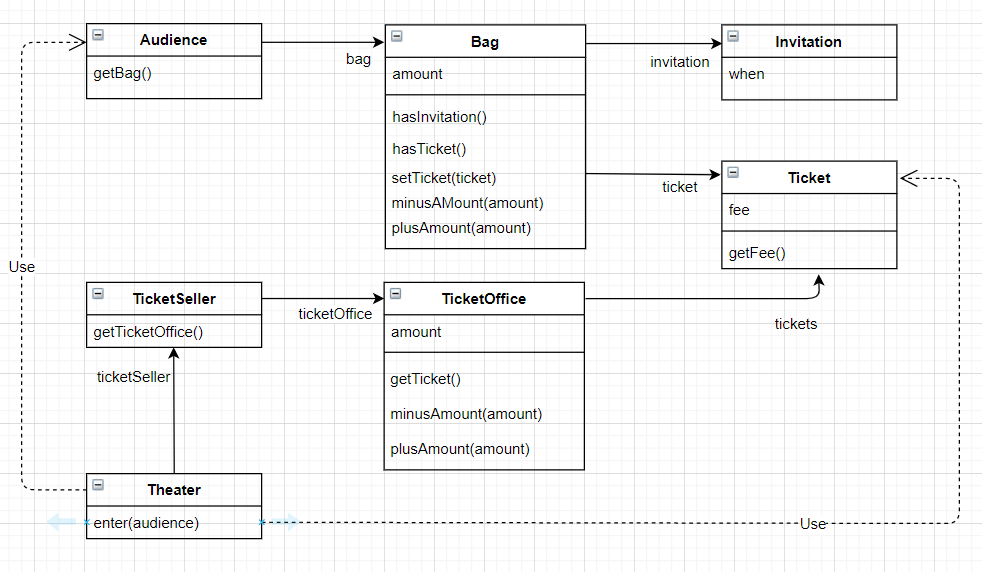
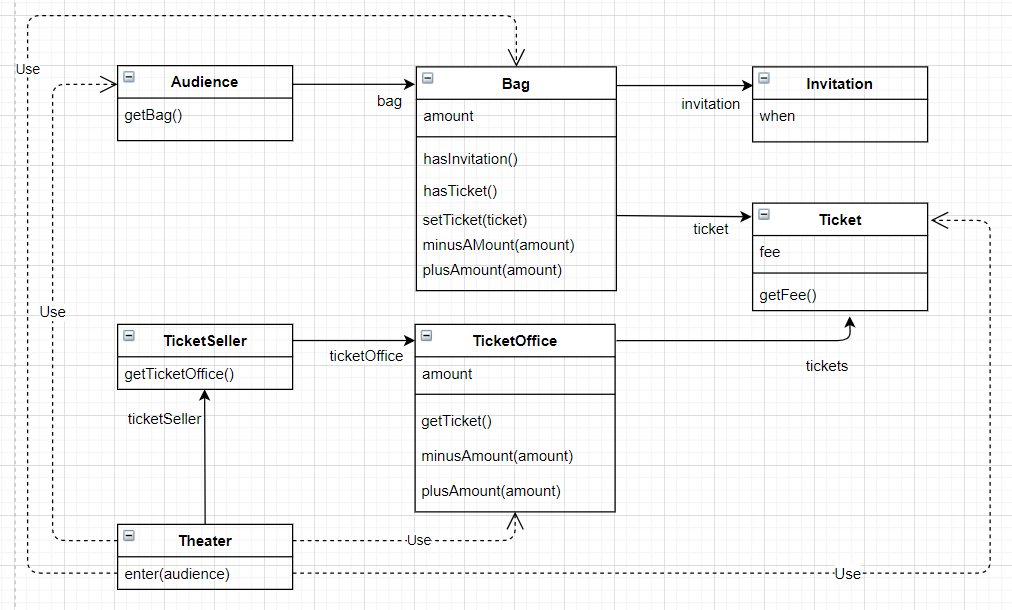
중간결과
Theater.enter(Audience)메소드의 로직을 TIcketSeller가 가져간다.

diff --git a/movieWebSite/src/main/java/com/movieWebSite/Theater.java b/movieWebSite/src/main/java/com/movieWebSite/Theater.java
@@ -11,19 +11,12 @@ public class Theater {
 	public Theater(TicketSeller ticketSeller) {
 		this.ticketSeller=ticketSeller;
 	}
-//관객이 극장에 입장할 때 초대장의 유무를 확인한다.
-//초대장이 있으면 티켓판매원이 매표소에서 티켓을 꺼내고 관람객은 티켓을 받는다.
-//초대장이 없으면 티켓판매원이 티켓을 꺼내고 관람객은 가방에서 금액을 티켓가격만큼 지불한다.
-//판매원은 매표소에 티켓 가격만큼의 금액을 추가하고 관람객은 티켓을 받는다.
+	
+	/*
+	 * 2. 기존에 enter 아래 로직을 티켓판매원이 가져갔다.
+	 * 이제 가저간 로직을 호출하는 메소드만 간단하게 작성한다. 
+	 * */
 	public void enter(Audience audience) {
-		if(audience.getBag().hasInvitation()) {
-			Ticket ticket = ticketSeller.getTicketOffice().getTicket();
-			audience.getBag().setTicket(ticket);
-		}else {
-			Ticket ticket = ticketSeller.getTicketOffice().getTicket();
-			audience.getBag().minusAmount(ticket.getFee());
-			ticketSeller.getTicketOffice().plusAmount(ticket.getFee());
-			audience.getBag().setTicket(ticket);
-		}
+		ticketSeller.sellTo(audience);
 	}
 }

diff --git a/movieWebSite/src/main/java/com/movieWebSite/domain/TicketSeller.java b/movieWebSite/src/main/java/com/movieWebSite/domain/TicketSeller.java
@@ -9,7 +9,23 @@ public class TicketSeller {
 		this.ticketOffice = ticketOffice;
 	}
 	
-	public TicketOffice getTicketOffice() {
-		return ticketOffice;
+	
+//	1-1. 이 메소드를 제거함으로 TIcketSeller 이외에 다른 클래스에서 TicketOffice에 직접 접근할 수 없다.
+//	public TicketOffice getTicketOffice() {
+//		return ticketOffice;
+//	}
+	
+	//1-2. 기존에 Theater.enter(Audience audience)에 있던 로직을 가져왔다.
+	//이제 티켓판매원이 판매를 직접 관리한다.
+	public void sellTo(Audience audience) {
+		if(audience.getBag().hasInvitation()) {
+			Ticket ticket = ticketOffice.getTicket();
+			audience.getBag().setTicket(ticket);
+		}else {
+			Ticket ticket = ticketOffice.getTicket();
+			audience.getBag().minusAmount(ticket.getFee());
+			ticketOffice.plusAmount(ticket.getFee());
+			audience.getBag().setTicket(ticket);
+		}
 	}
 }

diff --git a/movieWebSite/src/main/java/com/movieWebSite/domain/Audience.java b/movieWebSite/src/main/java/com/movieWebSite/domain/Audience.java
@@ -4,6 +4,7 @@ package com.movieWebSite.domain;
 public class Audience {
 	private Bag bag;
 	
+
 	public Bag getBag() {
 		return bag;
 	}

diff --git a/01.md b/01.md
@@ -1,0 +1,137 @@
+## 티켓 판매 프로그램 로직
+![너무많은 클래스에 의존하는 Theater](https://github.com/nowv30/Object/blob/master/images/%EC%A3%BC%EC%84%9D%202020-07-12%20143244.png "너무많은 클래스에 의존하는 Theater")
+- 영화관에서 영화를 상영하는데 관람객은 받은 초대장을 티켓으로 교환하거나 매표소에서 직원에게 티켓을 구매해야 한다.
+```java
+//1. 초대장에는 초대 날짜 변수가 있다.
+public class Invitation {
+	
+	private LocalDateTime when;
+}
+
+//2. 티켓에는 티켓요금과 요금을 나타내는 매소드가 있다.
+public class Ticket {
+	private long fee;
+
+	public long getFee() {
+		return fee;
+	}
+}
+
+/*
+ * 3. 가방. 관람객의 소지품으로는 티켓 또는 초대장이 있고 초대장이 없을 때 구매할 돈이 있다.
+ * */
+public class Bag {
+	private long amount;
+	private Invitation invitation;
+	private Ticket ticket;
+/*
+ * 초대장 유무, 티켓 유무, 티켓 구매, 구매시 현금 변화 메서드가 있다.
+ * */
+	public boolean hasInvitation() {
+		return invitation !=null;
+	}
+	
+	public boolean hasTicket() {
+		return ticket != null;
+	}
+	
+	public void setTicket(Ticket ticket) {
+		this.ticket = ticket;
+	}
+	
+	public void minusAmount(long amount) {
+		this.amount -=amount;
+	}
+	
+	public void plusAmount(long amount) {
+		this.amount +=amount;
+	}
+	
+/*
+ * 가방에는 초대장과 현금, 초대장 없이 현금만 있는 경우 두 가지 상태가 있을 수 있다.(티켓 구매 안한 상태) 이를 생성자로 표현한다.
+ * */
+	public Bag(long amount, Invitation invitation) {
+		this.amount = amount;
+		this.invitation = invitation;
+	}	
+}
+
+//4. 관람객은 소지품을 보관할 가방을 소지한다.
+public class Audience {
+	private Bag bag;
+	
+	public Bag getBag() {
+		return bag;
+	}
+}
+
+//5. 매표소에는 판매할 티켓과 티켓의 판매 금액이 보관되어 있다.
+public class TicketOffice {
+	private long amount;
+	private List<Ticket> tickets = new ArrayList<>();
+	
+/*
+ * 티켓을 판매하는 getTicket은 편의를 위해 tickets 컬랙션에서 맨 첫 번째 위치에 저장된 Ticket을 반환한다.
+ * 판매금액을 더하거나 빼는 메서드 구현
+ * */
+	public TicketOffice(long amount, Ticket ...tickets) {
+		this.amount = amount;
+		this.tickets.addAll(Arrays.asList(tickets));
+	}
+	
+	public Ticket getTicket() {
+		return tickets.remove(0);
+	}
+	
+	public void minusAmount(long amount) {
+		this.amount -=amount;
+	}
+	
+	public void plusAmount(long amount) {
+		this.amount +=amount;
+	}
+}
+
+//6. 티켓판매원은 초대장을 티켓을 교환하거나 티켓을 판매하는 역할을 한다.
+//판매원은 자신이 일하는 매표소 위치를 알아야 한다.
+public class TicketSeller {
+	private TicketOffice ticketOffice;
+	
+	public TicketSeller(TicketOffice ticketOffice) {
+		this.ticketOffice = ticketOffice;
+	}
+	
+	public TicketOffice getTicketOffice() {
+		return ticketOffice;
+	}
+}
+
+//7. 극장에는 티켓 판매원이 반드시 있어야 하므로 생성자로 표시한다.
+public class Theater {
+	private TicketSeller ticketSeller;
+	
+	public Theater(TicketSeller ticketSeller) {
+		this.ticketSeller=ticketSeller;
+	}
+//관객이 극장에 입장할 때 초대장의 유무를 확인한다.
+//초대장이 있으면 티켓판매원이 매표소에서 티켓을 꺼내고 관람객은 티켓을 받는다.
+//초대장이 없으면 티켓판매원이 티켓을 꺼내고 관람객은 가방에서 금액을 티켓가격만큼 지불한다.
+//판매원은 매표소에 티켓 가격만큼의 금액을 추가하고 관람객은 티켓을 받는다.
+	public void enter(Audience audience) {
+		if(audience.getBag().hasInvitation()) {
+			Ticket ticket = ticketSeller.getTicketOffice().getTicket();
+			audience.getBag().setTicket(ticket);
+		}else {
+			Ticket ticket = ticketSeller.getTicketOffice().getTicket();
+			audience.getBag().minusAmount(ticket.getFee());
+			ticketSeller.getTicketOffice().plusAmount(ticket.getFee());
+			audience.getBag().setTicket(ticket);
+		}
+	}
+}
+
+```
+
+![너무많은 클래스에 의존하는 Theater](https://github.com/nowv30/Object/blob/master/images/%EC%A3%BC%EC%84%9D%202020-07-12%20143244.png "너무많은 클래스에 의존하는 Theater")
+- 이대로 프로그램을 구현하면 문제없이 동작할 것이다.
+- 그러나 이 프로그램은 기능은 정상적이나 변경 용이성과 읽는 사람과의 의사소통에 문제가 있다.
